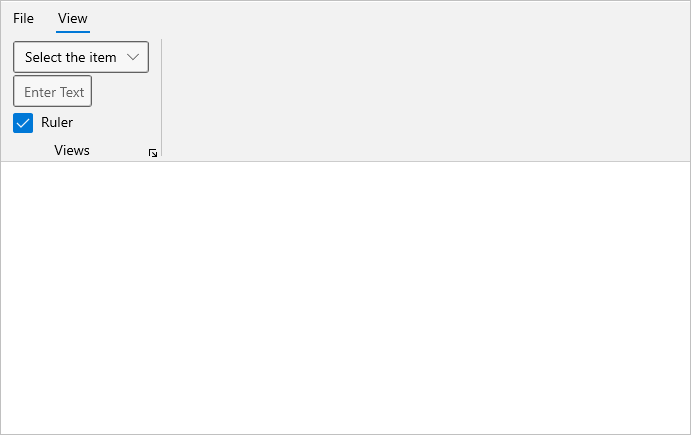
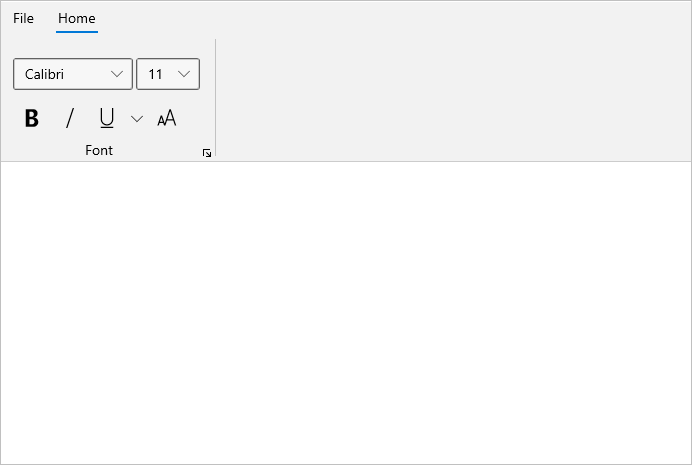
WINUI-447-Done the review corrections in ribbon control[additional changes]

Changed region(s): [[0.0, 0.0299, 0.3039, 0.3287], [0.0608, 0.2989, 0.1823, 0.3586], [0.2127, 0.3287, 0.2431, 0.3586]]

diff --git a/winui/Ribbon/Getting-Started.md b/winui/Ribbon/Getting-Started.md
@@ -383,54 +383,71 @@ You can host other controls such as checkbox, radio button and combobox etc., to
 {% highlight xaml %}
 <ribbon:SfRibbon x:Name="sfRibbon">
     <ribbon:SfRibbon.Tabs>
-        <ribbon:RibbonTab Header="View">
-            <ribbon:RibbonGroup Header="Views">
-                <ribbon:RibbonItemHost>
+        <ribbon:RibbonTab Header="Home">
+            <ribbon:RibbonGroup Header="Font">
+                <ribbon:RibbonItemHost Margin="0,12,0,0">
                     <ribbon:RibbonItemHost.ItemTemplate>
-                        <ComboBox Margin="0,0,0,2"
-                                  PlaceholderText="Select the item" />
+                        <StackPanel Orientation="Horizontal">
+                            <ComboBox x:Name="FontComboBox"
+                                      Width="120"
+                                      PlaceholderText="Select Font"
+                                      PlaceholderForeground="#A2A2A2">
+                                <ComboBoxItem Content="Calibri"
+                                              IsSelected="True" />
+                                <ComboBoxItem Content="Arial" />
+                                <ComboBoxItem Content="Segoe UI" />
+                            </ComboBox>
+                            <ComboBox Margin="3,0"
+                                      x:Name="FontSizeComboBox"
+                                      PlaceholderText="Select Font Size"
+                                      PlaceholderForeground="#A2A2A2">
+                                <ComboBoxItem Content="11"
+                                              IsSelected="True" />
+                                <ComboBoxItem Content="12" />
+                            </ComboBox>
+                        </StackPanel>
                     </ribbon:RibbonItemHost.ItemTemplate>
                 </ribbon:RibbonItemHost>
-                <ribbon:RibbonItemHost>
+                <ribbon:RibbonItemHost Margin="0,12,0,0">
                     <ribbon:RibbonItemHost.ItemTemplate>
-                        <TextBox PlaceholderText="Enter Text" />
-                    </ribbon:RibbonItemHost.ItemTemplate>
-                </ribbon:RibbonItemHost>
-                <ribbon:RibbonItemHost>
-                    <ribbon:RibbonItemHost.ItemTemplate>
-                        <CheckBox Content="Ruler"
-                                  IsChecked="true" />
+                        <StackPanel Orientation="Horizontal">
+                            <ToggleButton x:Name="Bold"
+                                          Background="{ThemeResource SystemChromeLowColor}">
+                                <ToggleButton.Content>
+                                    <SymbolIcon Symbol="Bold" />
+                                </ToggleButton.Content>
+                            </ToggleButton>
+                            <ToggleButton x:Name="Italic"
+                                          Background="{ThemeResource SystemChromeLowColor}">
+                                <ToggleButton.Content>
+                                    <SymbolIcon Symbol="Italic" />
+                                </ToggleButton.Content>
+                            </ToggleButton>
+                            <ribbon:RibbonSplitButton x:Name="underlineButton"
+                                                      SizeMode="Small"
+                                                      Icon="Underline"
+                                                      Content="Underline">
+                                <ribbon:RibbonSplitButton.Flyout>
+                                    <MenuFlyout>
+                                        <MenuFlyoutItem Text="Underline" />
+                                        <MenuFlyoutItem Text="Double underline" />
+                                        <MenuFlyoutItem Text="Thick underline" />
+                                        <MenuFlyoutItem Text="Dotted underline" />
+                                    </MenuFlyout>
+                                </ribbon:RibbonSplitButton.Flyout>
+                            </ribbon:RibbonSplitButton>
+                            <ribbon:RibbonButton x:Name="fontSizeButton"
+                                                 Icon="FontSize"
+                                                 SizeMode="Small"
+                                                 Content="FontSize" />
+                        </StackPanel>
                     </ribbon:RibbonItemHost.ItemTemplate>
                 </ribbon:RibbonItemHost>
             </ribbon:RibbonGroup>
         </ribbon:RibbonTab>
     </ribbon:SfRibbon.Tabs>
 </ribbon:SfRibbon>
-{% endhighlight %}   
-{% highlight c# %}
-SfRibbon sfRibbon = new SfRibbon();
-RibbonTab viewTab = new RibbonTab() { Header = "View" };
-RibbonGroup viewsGroup = new RibbonGroup() { Header = "Views" };
 
-ComboBox comboBox = new ComboBox() { PlaceholderText = "Select the item" , Margin= new Thickness() { Bottom = 2} };
-TextBox textBox = new TextBox() { PlaceholderText = "Enter Text" };
-CheckBox rulerCheckBox = new CheckBox() { IsChecked = true, Content = "Ruler" };           
-
-RibbonItemHost customItem1 = new RibbonItemHost();
-customItem1.ItemTemplate = comboBox;
-
-RibbonItemHost customItem2 = new RibbonItemHost();
-customItem2.ItemTemplate = textBox;
-
-RibbonItemHost customItem3 = new RibbonItemHost();
-customItem3.ItemTemplate = rulerCheckBox;
-
-viewsGroup.Items.Add(customItem1);
-viewsGroup.Items.Add(customItem2);
-viewsGroup.Items.Add(customItem3);
-viewTab.Items.Add(viewsGroup);
-sfRibbon.Tabs.Add(viewTab);
-this.rootGrid.Children.Add(sfRibbon);
 {% endhighlight %}
 {% endtabs %}
 
@@ -521,11 +538,11 @@ The [RibbonBackstage](https://help.syncfusion.com/cr/winui/Syncfusion.UI.Xaml.Ri
 {% endhighlight %}
 {% endtabs %}
 
-![Add RibbonBackstage to the ribbon](Getting-Started-images/Getting-Started-image10.png)
+![Add RibbonBackstage to the ribbon](Getting-Started-images/Getting-Started-image10.gif)
 
 ## Add BackstageView to the ribbon backstage ##
 
-You can host [BackstageView](https://help.syncfusion.com/cr/winui/Syncfusion.UI.Xaml.Ribbon.BackstageView.html) inside the ribbon backstage and use it to manage additional commands through a separate backstage view in the ribbon.
+You can host [BackstageView](https://help.syncfusion.com/cr/winui/Syncfusion.UI.Xaml.Ribbon.BackstageView.html) inside the ribbon backstage and use it to manage the settings and options for your application in a separate backstage view.
 
 {% tabs %}
 {% highlight xaml %}
@@ -549,7 +566,7 @@ this.rootGrid.Children.Add(sfRibbon);
 {% endhighlight %} 
 {% endtabs %}
 
-![Add BackstageView inside the ribbon backstage](Getting-Started-images/Getting-Started-image7.png)
+![Add BackstageView inside the ribbon backstage](Getting-Started-images/Getting-Started-image7.gif)
 
 ## Add Backstage items to the BackStageView ##
 

diff --git a/winui/Ribbon/Overview.md b/winui/Ribbon/Overview.md
@@ -9,7 +9,7 @@ documentation: ug
 
 # WinUI Ribbon Overview
 
-The Syncfusion Ribbon for WinUI is a command bar that organizes an application’s commands and tools into a series of tabs. It also supports a backstage view like in Microsoft Office products.
+The Syncfusion Ribbon for WinUI is a command bar that organizes an application’s commands and tools into a series of tabs. It also supports a backstage view as like in Microsoft Office products.
 
 ## Key Features ##
 
